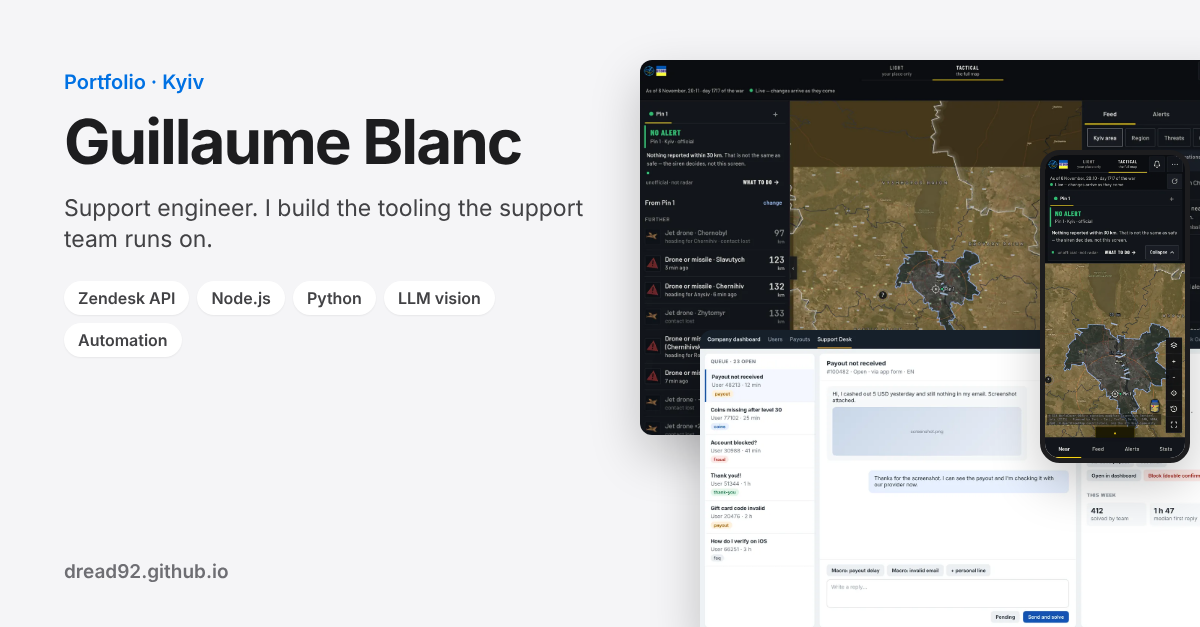
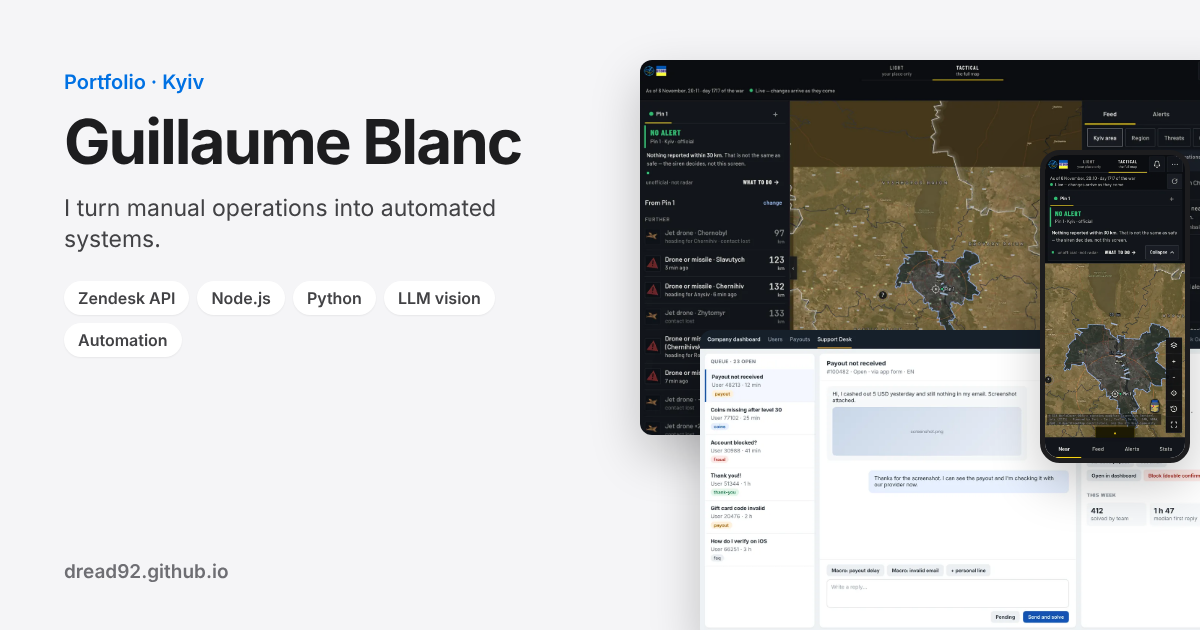
Reposition hero on automation, add availability, numbers and commented code

diff --git a/index.html b/index.html
@@ -4,10 +4,10 @@
 <meta charset="utf-8">
 <meta name="viewport" content="width=device-width, initial-scale=1">
 <meta name="google" content="notranslate">
-<title>Guillaume Blanc</title>
-<meta name="description" content="Guillaume Blanc, support engineer in Kyiv. The tooling behind a high-volume support team: a deterministic auto-reply service with nine guardrails, an agent workspace, a scanner suite, and Heimdall, a live air-raid tracker.">
-<meta property="og:title" content="Guillaume Blanc">
-<meta property="og:description" content="Guillaume Blanc, support engineer in Kyiv. The tooling behind a high-volume support team: a deterministic auto-reply service with nine guardrails, an agent workspace, a scanner suite, and Heimdall, a live air-raid tracker.">
+<title>Guillaume Blanc, automation and AI operations</title>
+<meta name="description" content="Guillaume Blanc, automation and AI operations, based in Kyiv. I turn manual operations into automated systems: a deterministic auto-reply service with nine guardrails, an agent workspace, scanners with a local vision model, and Heimdall, a live air-raid tracker.">
+<meta property="og:title" content="Guillaume Blanc, automation and AI operations">
+<meta property="og:description" content="Guillaume Blanc, automation and AI operations, based in Kyiv. I turn manual operations into automated systems: a deterministic auto-reply service with nine guardrails, an agent workspace, scanners with a local vision model, and Heimdall, a live air-raid tracker.">
 <meta property="og:url" content="https://dread92.github.io/">
 <meta property="og:image" content="https://dread92.github.io/og.png">
 <meta property="og:image:width" content="1200"><meta property="og:image:height" content="630">
@@ -297,6 +297,31 @@
   @keyframes cuein { to { opacity:.8; } }
   @keyframes cuebob { 0%,100% { transform:translateY(0); opacity:.5; } 50% { transform:translateY(6px); opacity:1; } }
   @media (prefers-reduced-motion: reduce) { .m-cue, .m-cue svg { animation:none; opacity:.8; } }
+  /* availability + numbers */
+  .avail { display:inline-flex; flex-wrap:wrap; justify-content:center; align-items:center; gap:6px 10px; margin:22px auto 0; padding:8px 16px; border-radius:999px; background:var(--green-soft); color:var(--green); font-size:0.9rem; }
+  .avail b { font-weight:600; } .avail .sub { color:var(--ink-2); }
+  .avail .dot { width:8px; height:8px; border-radius:50%; background:var(--green); box-shadow:0 0 0 0 currentColor; animation:pulse 2.4s infinite; }
+  @keyframes pulse { 0% { box-shadow:0 0 0 0 rgba(29,122,70,.45); } 70% { box-shadow:0 0 0 9px rgba(29,122,70,0); } 100% { box-shadow:0 0 0 0 rgba(29,122,70,0); } }
+  .hero .avail { opacity:0; animation:rise .9s cubic-bezier(.2,.7,.2,1) .32s forwards; }
+  .nums { display:grid; grid-template-columns:repeat(4,1fr); gap:0; max-width:900px; margin:48px auto 0; border-top:1px solid var(--line); border-bottom:1px solid var(--line); }
+  .num { padding:22px 14px; text-align:center; } .num + .num { border-left:1px solid var(--line); }
+  .num b { display:block; font-size:2.1rem; font-weight:600; letter-spacing:-0.03em; font-variant-numeric:tabular-nums; }
+  .num span { display:block; margin-top:4px; color:var(--ink-3); font-size:0.82rem; line-height:1.35; }
+  /* code blocks */
+  .code { margin:40px 0 0; text-align:left; }
+  .code h3 { margin-bottom:14px; }
+  .code-box { background:#161618; border-radius:14px; overflow:hidden; box-shadow:0 18px 40px -24px rgba(0,0,0,.45); }
+  :root[data-theme="dark"] .code-box { border:1px solid var(--line); }
+  .code-h { display:flex; align-items:center; gap:12px; padding:10px 16px; background:#232326; font-family:ui-monospace,"SF Mono",Menlo,monospace; font-size:0.76rem; color:#a1a1a6; }
+  .code-h .dots { display:inline-flex; gap:6px; } .code-h .dots i { width:10px; height:10px; border-radius:50%; background:#48484a; }
+  .code-h .fn { color:#e5e5ea; } .code-h .tag { margin-left:auto; padding:2px 9px; border-radius:999px; background:#34343a; color:#d2d2d7; font-family:inherit; white-space:nowrap; }
+  .code pre { margin:0; padding:18px 20px 20px; overflow-x:auto; font-family:ui-monospace,"SF Mono",Menlo,Consolas,monospace; font-size:0.8rem; line-height:1.7; color:#e5e5ea; tab-size:2; letter-spacing:0; }
+  .code code { font:inherit; }
+  .code .c { color:#8fd19e; font-style:italic; } .code .s { color:#ffb86b; } .code .k { color:#7cc0ff; } .code .n { color:#d4a8ff; } .code .f { color:#f2e394; }
+  .code figcaption { margin-top:12px; color:var(--ink-3); font-size:0.88rem; max-width:760px; }
+  @media (max-width:820px) { .nums { grid-template-columns:repeat(2,1fr); } .num:nth-child(3) { border-left:0; } .num:nth-child(n+3) { border-top:1px solid var(--line); } .code pre { font-size:0.7rem; padding:14px; } .avail { font-size:0.82rem; border-radius:16px; } }
+  @media (max-width:600px) { .nums { margin-top:8px; } .nums + .glance-h { margin-top:30px; } .num b { font-size:1.7rem; } .hero-top .avail { margin-top:26px; } }
+  @media (prefers-reduced-motion: reduce) { .avail .dot { animation:none; } .hero .avail { opacity:1; animation:none; } }
 </style>
 </head>
 <body>
@@ -311,15 +336,17 @@
 <main id="top">
   <section class="hero"><div class="wrap">
     <div class="hero-top">
-    <h1><span class="l-full">Support engineer.<br>I build the tooling the support team runs on.</span><span class="l-short">Support engineer.<br>I build the tooling.</span></h1>
-    <p class="lede"><span class="l-full">Ten years of fixing things for people, from PCs and small business networks to a high-volume Zendesk queue, where I built most of the team's automation. Off the clock, Heimdall, a volunteer air-raid tracker that people in Kyiv open every night.</span><span class="l-short">Ten years of fixing things for people. Most recently, the automation behind a high-volume support team.</span></p>
-    <ul class="skills" aria-label="Core skills"><li>Support automation</li><li>Zendesk API</li><li>Node.js</li><li>Python</li><li>LLM and vision models</li><li>Userscripts</li><li>Dashboards</li><li>Incident response</li><li>Linux</li></ul>
+    <h1><span class="l-full">I turn manual operations<br>into automated systems.</span><span class="l-short">I automate<br>operations.</span></h1>
+    <p class="lede"><span class="l-full">I find the repetitive, risky parts of an operation and replace them with tools that are safe to leave running. Most recently: the automation behind a high-volume support team. Off the clock: Heimdall, a volunteer air-raid tracker that people in Kyiv open every night.</span><span class="l-short">I replace repetitive, risky manual work with tools that are safe to leave running.</span></p>
+    <ul class="skills" aria-label="Core skills"><li>Process automation</li><li>REST APIs</li><li>Node.js</li><li>Python</li><li>LLM and vision models</li><li>Zendesk admin</li><li>Dashboards</li><li>Incident response</li><li>Linux</li></ul>
+    <p class="avail"><span class="dot"></span><b>Available from December 2026</b><span class="sub">Remote or Kyiv · Automation, AI operations, technical operations</span></p>
     <div class="cta">
       <a class="pill" href="Guillaume_Blanc_CV.pdf">Download the CV</a>
       <span class="cta-links"><a class="textlink" href="https://www.linkedin.com/in/guillaume-blanc-820bb528a">LinkedIn</a><a class="textlink" href="https://github.com/Dread92">GitHub</a><a class="textlink" href="mailto:guillaume.blanc92@hotmail.fr">Email</a></span>
     </div>
     <a class="m-cue" href="#glance" aria-label="Scroll to see the work"><span>See the work</span><svg viewBox="0 0 24 24" fill="none" stroke="currentColor" stroke-width="1.6" stroke-linecap="round" stroke-linejoin="round"><path d="M6 9l6 6 6-6"/></svg></a>
     </div>
+    <div class="nums"><div class="num"><b>1,037</b><span>tickets handled by my auto-reply service</span></div><div class="num"><b>0</b><span>incidents or rollbacks since launch</span></div><div class="num"><b>8</b><span>internal tools built for the team</span></div><div class="num"><b>96</b><span>devices open Heimdall on a typical day</span></div></div>
     <h2 class="glance-h" id="glance">The work at a glance</h2>
     <div class="glance"><a class="gcard" href="#autoreply"><span class="gimg"><img src="autoreply-sm.webp" alt="" width="640" height="400" loading="eager"></span><b>Auto-reply service</b><span>Replaced a paid Zapier workflow. 1,037 tickets, zero incidents.</span></a><a class="gcard" href="#desk"><span class="gimg"><img src="desk-sm.webp" alt="" width="640" height="400" loading="eager"></span><b>Support Desk</b><span>An agent workspace that engineering adopted natively.</span></a><a class="gcard" href="#scanners"><span class="gimg"><img src="scanner-sm.webp" alt="" width="640" height="400" loading="eager"></span><b>Vision and scanners</b><span>Computer vision on user screenshots to detect trends.</span></a><a class="gcard" href="#heimdall"><span class="gimg"><img src="heimdall-sm.webp" alt="" width="640" height="400" loading="eager"></span><b>Heimdall</b><span>Free air-raid tracker for Kyiv, used by air-defence teams.</span></a></div>
     <a class="scroll-cue" href="#autoreply" aria-label="Scroll to see the work"><span>Scroll to see the work</span><svg viewBox="0 0 24 24" fill="none" stroke="currentColor" stroke-width="1.8" stroke-linecap="round" stroke-linejoin="round"><path d="M6 9l6 6 6-6"/></svg></a>
@@ -396,6 +423,40 @@
 <span class="k">canary</span> incidents_born_last_2h=0  <span class="ok">ok</span>
 <span class="dim">journal: actions.jsonl +2</span></div><p class="muted" style="margin-top:16px;font-size:0.95rem">Also in the folder: a dry-run auditor that applies the same classifier to the whole backlog without writing anything, a resumable backfill executor, and a one-off stale-ticket follow-up. Same rules, same journal, same rollback.</p></div>
       </div>
+      <figure class="code"><h3>The guardrails, in code</h3><div class="code-box"><div class="code-h"><span class="dots"><i></i><i></i><i></i></span><span class="fn">auto-reply.js</span><span class="tag">Simplified sketch</span></div><pre><code><span class="c">// One pass over the queue. Every check below exists because of a real incident.</span>
+<span class="k">async</span> <span class="k">function</span> <span class="f">pass</span>(&#123; live &#125;) &#123;
+  <span class="c">// Kill switch: a file named STOP next to the script halts every write.</span>
+  <span class="k">if</span> (fs.<span class="f">existsSync</span>(<span class="s">'STOP'</span>)) <span class="k">return</span> <span class="f">log</span>(<span class="s">'stopped by kill switch'</span>);
+
+  <span class="k">for</span> (<span class="k">const</span> ticket <span class="k">of</span> <span class="k">await</span> <span class="f">candidates</span>()) &#123;     <span class="c">// new, unanswered, not too old</span>
+    <span class="k">const</span> cat = <span class="f">classify</span>(ticket);                <span class="c">// written rules, same input gives same output</span>
+    <span class="k">if</span> (cat === <span class="s">'none'</span>) &#123; <span class="k">await</span> <span class="f">release</span>(ticket); <span class="k">continue</span>; &#125;
+
+    <span class="c">// Never trust a label. A punitive reply needs a positive signal</span>
+    <span class="c">// from the backend, not just a tag or a ticket type.</span>
+    <span class="k">if</span> (cat === <span class="s">'fraud'</span> &amp;&amp; !(<span class="k">await</span> <span class="f">backendConfirmsBlock</span>(ticket))) &#123;
+      <span class="k">await</span> <span class="f">release</span>(ticket);                     <span class="c">// a person decides instead</span>
+      <span class="k">continue</span>;
+    &#125;
+
+    <span class="c">// Circuit breaker: hard caps per hour, per day and for fraud.</span>
+    <span class="c">// Tripping one pauses all writes until a human resumes on purpose.</span>
+    <span class="k">if</span> (!breaker.<span class="f">allow</span>(cat)) &#123; <span class="k">await</span> <span class="f">alert</span>(<span class="s">'breaker tripped'</span>); <span class="k">return</span>; &#125;
+
+    <span class="c">// Every action carries the run tag, so one command can undo a whole run.</span>
+    journal.<span class="f">append</span>(&#123; run: RUN_ID, ticket: ticket.id, cat, at: Date.<span class="f">now</span>() &#125;);
+    <span class="k">if</span> (live) <span class="k">await</span> <span class="f">replyAndSolve</span>(ticket, cat);  <span class="c">// shadow mode stops before this line</span>
+  &#125;
+&#125;
+
+<span class="k">async</span> <span class="k">function</span> <span class="f">backendConfirmsBlock</span>(ticket) &#123;
+  <span class="k">try</span> &#123;
+    <span class="k">const</span> user = <span class="k">await</span> backend.<span class="f">lookup</span>(ticket.requester);
+    <span class="k">return</span> user.blocked === <span class="k">true</span> &amp;&amp; user.reasons.length &gt; <span class="n">0</span>;
+  &#125; <span class="k">catch</span> &#123;
+    <span class="k">return</span> <span class="k">false</span>;  <span class="c">// fail closed: backend down or slow means "not confirmed"</span>
+  &#125;
+&#125;</code></pre></div><figcaption>A simplified sketch written for this page to show the order of the checks. The production code runs on internal systems and is not public.</figcaption></figure>
     </div></details>
   </div></section>
 
@@ -534,6 +595,36 @@
           <p style="margin-top:22px"><a class="textlink" href="https://github.com/Dread92/Heimdall-map">Source on GitHub</a><br><a class="textlink" href="https://heimdall.com.ua/m">Live tactical map</a><br><a class="textlink" href="https://t.me/Heimdall07300_bot">Telegram bot: @Heimdall07300_bot</a></p>
         </div>
       </div>
+      <figure class="code"><h3>From the source</h3><div class="code-box"><div class="code-h"><span class="dots"><i></i><i></i><i></i></span><span class="fn">app/server.py</span><span class="tag">Real code, trimmed</span></div><pre><code><span class="c"># _chain_and_prune(): decide which reported targets are still shown, and how.</span>
+<span class="k">for</span> m <span class="k">in</span> ms:
+    tp = <span class="f">parse_iso</span>(m.<span class="f">get</span>(<span class="s">"pos_ts"</span>) <span class="k">or</span> m[<span class="s">"ts"</span>])
+    age = (now - tp).<span class="f">total_seconds</span>() / <span class="n">60</span> <span class="k">if</span> tp <span class="k">else</span> <span class="n">0</span>
+
+    <span class="c"># A missile is not a drone and must not be aged like one. A Shahed does</span>
+    <span class="c"># ~3 km a minute, so a five-minute-old dot is still worth something. A</span>
+    <span class="c"># cruise missile does ~13, a ballistic one ~35: a position two minutes old</span>
+    <span class="c"># is already tens of kilometres wrong, and a grey dot left on the map would</span>
+    <span class="c"># be a lie with a precise pin in it. So missiles keep no "stale" flag at</span>
+    <span class="c"># all: the client turns them into a growing circle of where they could now</span>
+    <span class="c"># be, and they are dropped sooner.</span>
+    <span class="k">if</span> <span class="s">"missile"</span> <span class="k">in</span> (m.<span class="f">get</span>(<span class="s">"type"</span>) <span class="k">or</span> <span class="s">""</span>):
+        <span class="k">if</span> age &gt; MISSILE_TTL_MIN:
+            <span class="k">continue</span>
+        m[<span class="s">"fast"</span>] = <span class="k">True</span>
+        keep.<span class="f">append</span>(m)
+        <span class="k">continue</span>
+
+    <span class="c"># ...</span>
+
+    <span class="k">if</span> age &gt; st_min:
+        <span class="c"># An unspecified threat says where, not what. It is a loud red sign</span>
+        <span class="c"># while it is fresh, and then it is simply gone: no grey ghost fading</span>
+        <span class="c"># for ten more minutes, because nobody ever said what it was.</span>
+        <span class="k">if</span> m.<span class="f">get</span>(<span class="s">"type"</span>) == <span class="s">"unknown"</span>:
+            <span class="k">continue</span>
+        <span class="k">if</span> age &gt; (REGIONAL_GONE_MIN <span class="k">if</span> reg <span class="k">else</span> <span class="f">max</span>(stale * <span class="n">3</span>, <span class="n">15</span>)):
+            <span class="k">continue</span>                      <span class="c"># nothing for 15 min: gone</span>
+        m[<span class="s">"stale"</span>] = <span class="f">round</span>(age)           <span class="c"># kept as "? location not updated"</span></code></pre></div><figcaption>Taken from the open-source repository and shortened, comments included. The rule it implements: a stale position is never shown as a live one. <a class="textlink" href="https://github.com/Dread92/Heimdall-map/blob/main/app/server.py">Open the file on GitHub</a></figcaption></figure>
     </div></details>
   </div></section>
 
@@ -556,7 +647,7 @@
   </div></section>
 
   <section id="about"><div class="wrap about">
-    <div><h2>About</h2><p style="margin-top:16px">I am French, based in Kyiv, and I have spent ten years fixing things for people: PCs and small business networks first, then two years of L2 support on a mobile rewards platform where I ended up building most of the team's tooling. Before IT, three years in the French Gendarmerie as a field responder, which is where I learned to stay calm and procedural when it matters.</p><p>I like problems where the fix is a tool the team keeps using, and I distrust automation that cannot be rolled back. I work in English and French, and I am open to remote roles in technical support, support engineering, support operations and automation.</p><p style="margin-top:22px"><a class="pill" href="Guillaume_Blanc_CV.pdf">Download the CV</a></p></div>
+    <div><h2>About</h2><p style="margin-top:16px">I am French, based in Kyiv, and I have spent ten years fixing things for people: PCs and small business networks first, then two years of L2 support on a mobile rewards platform where I ended up building most of the team's tooling. Before IT, three years in the French Gendarmerie as a field responder, which is where I learned to stay calm and procedural when it matters.</p><p>I like problems where the fix is a tool the team keeps using, and I distrust automation that cannot be rolled back. I work in English and French. I am available from December 2026 and open to roles in automation, AI operations, technical operations and integrations, remote or in Kyiv.</p><p style="margin-top:22px"><a class="pill" href="Guillaume_Blanc_CV.pdf">Download the CV</a></p></div>
     <ul class="timeline"><li><b>Technical Support Specialist and Workflow Automation, Gamelight</b><span>September 2024 to December 2026, remote. Took over the team lead's operational scope in August 2026.</span></li><li><b>Heimdall, creator</b><span>2026, open source, in daily use in Kyiv.</span></li><li><b>Project lead developer, FUSA</b><span>2022 to present. NGO supporting Ukrainian defenders.</span></li><li><b>Computer technician, LDLC</b><span>2019 to 2022, Lyon. Custom builds, diagnostics, remote support.</span></li><li><b>Gendarme, Gendarmerie nationale</b><span>2015 to 2018. Field intervention, APJA qualification.</span></li><li><b>Web Developer and Integrator, OpenClassrooms</b><span>2023. State-registered certification, RNCP level 5.</span></li></ul>
   </div></section>
 </main>
@@ -586,7 +677,7 @@
   window.addEventListener('scroll',function(){ nav.classList.toggle('scrolled', window.scrollY>8); },{passive:true});
   if(!('IntersectionObserver' in window) || reduce) return;
   // mark elements to reveal
-  var sel='.shot, .phone, .hm-p2, .open-app, .sec-head, .panel, .tool, .guardrails li, .checks li, .stat, .stats-note, .quote, .letter > *, .kyiv p, .about > *, .timeline li, .log, .muted';
+  var sel='.code, .shot, .phone, .hm-p2, .open-app, .sec-head, .panel, .tool, .guardrails li, .checks li, .stat, .stats-note, .quote, .letter > *, .kyiv p, .about > *, .timeline li, .log, .muted';
   document.querySelectorAll(sel).forEach(function(el){ if(!el.closest('.hero')) el.classList.add(el.matches('.panel,.tool,.stat,.letter > *,.shot,.phone')?'rv-scale':'rv'); });
   // stagger siblings
   document.querySelectorAll('.tools, .guardrails, .checks, .stats, .timeline').forEach(function(p){
